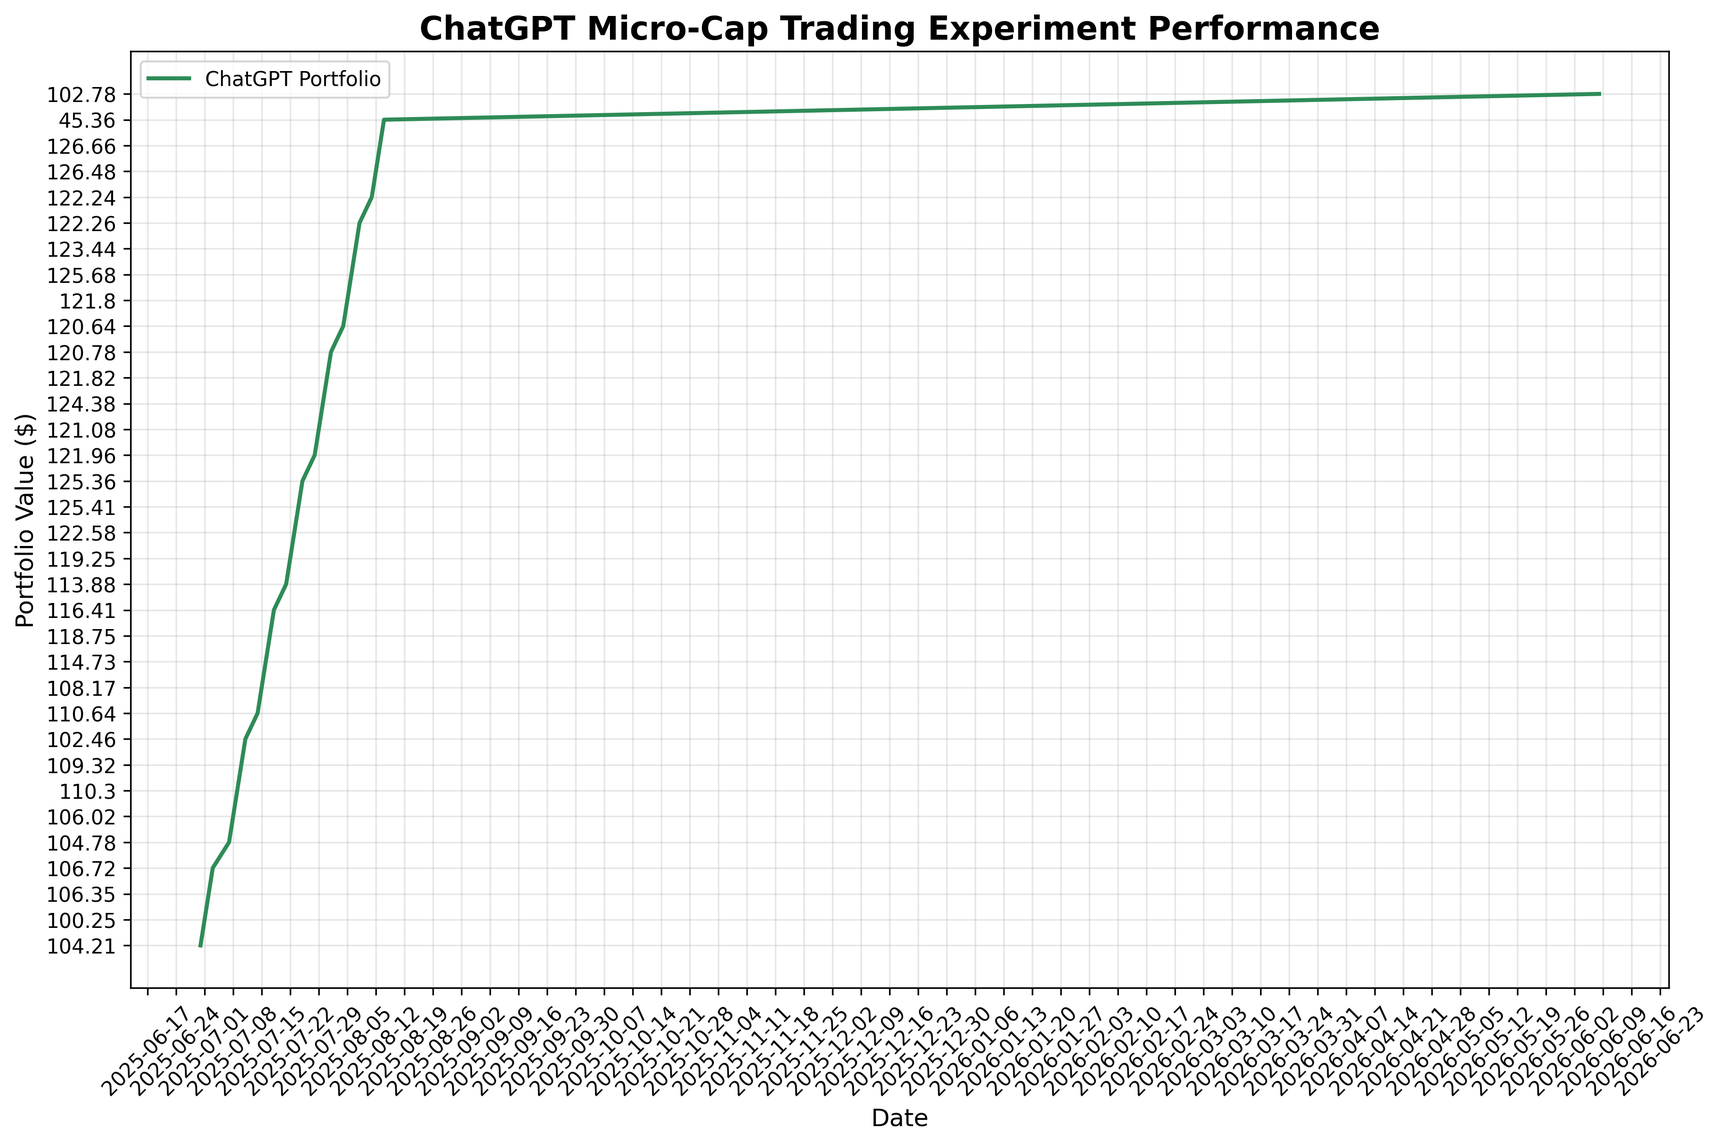
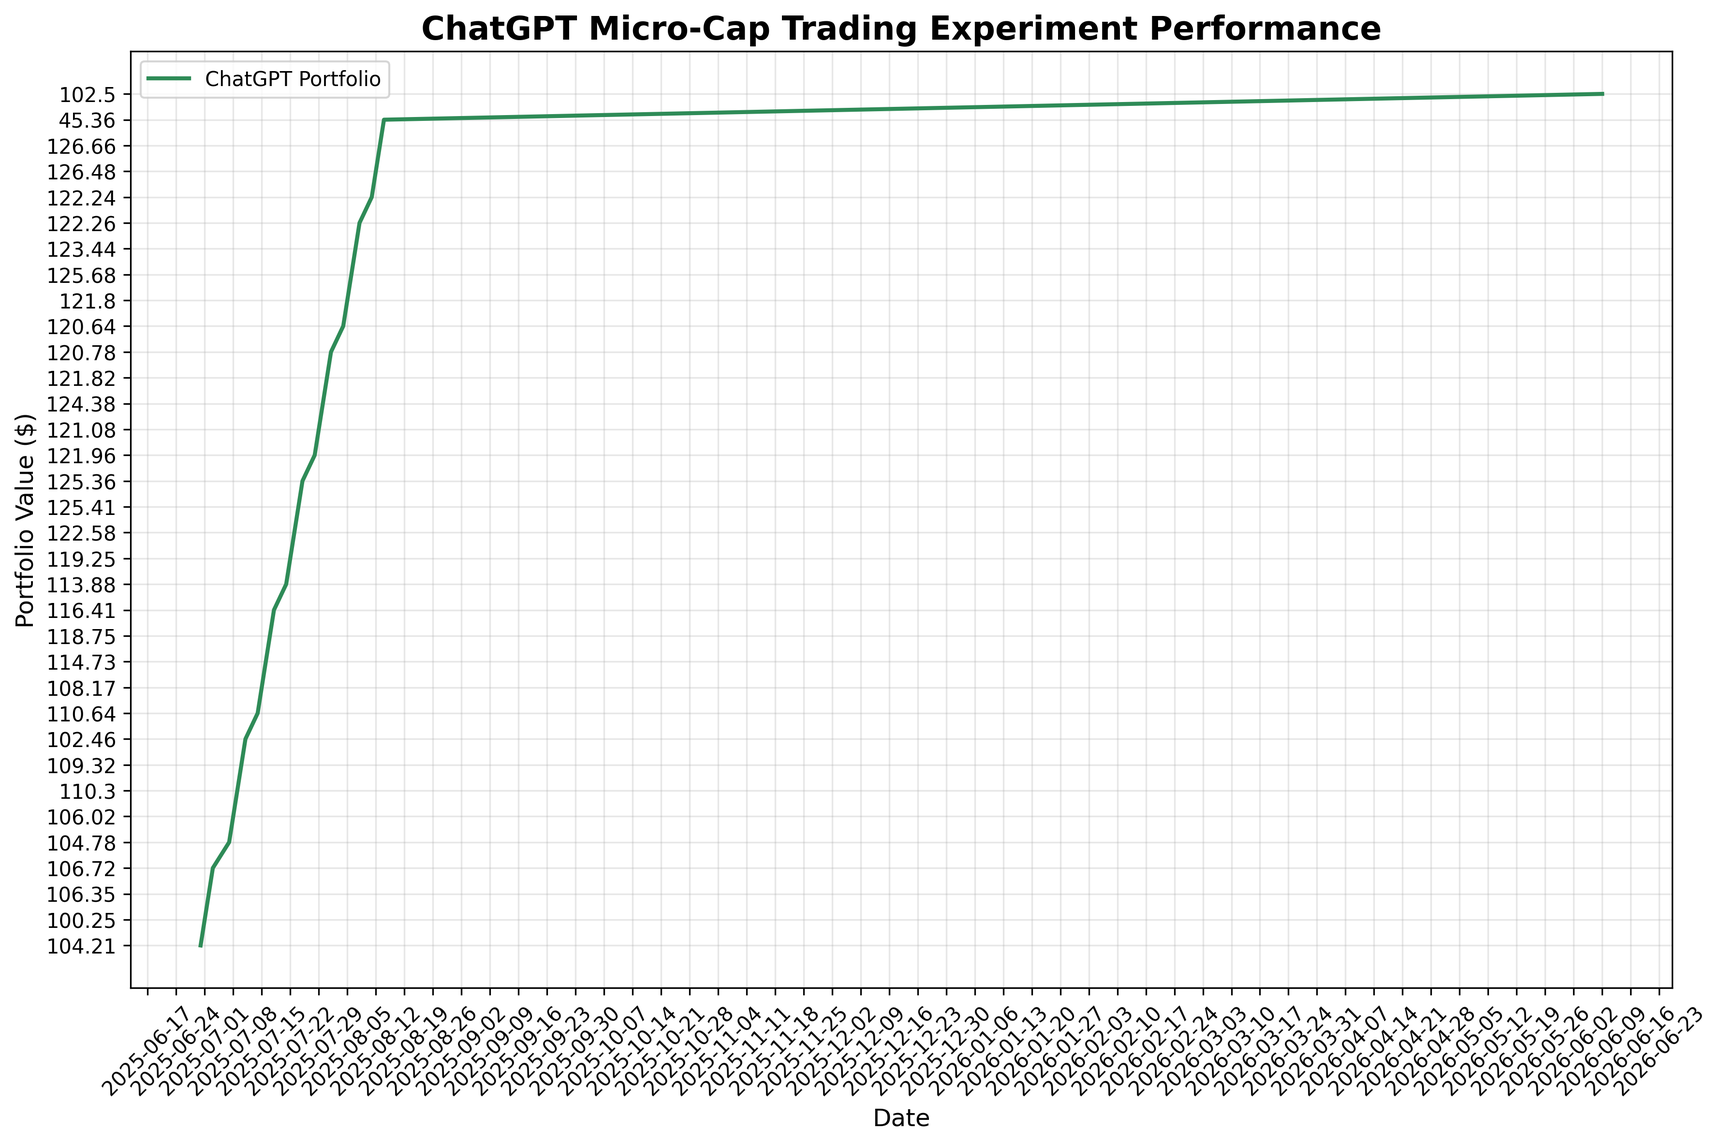
deploy: e15cad030d70fb3fbb51f9df6e22fa70c2f175c0

diff --git a/index.html b/index.html
@@ -105,7 +105,7 @@
                 <div class="stat-label">Total Trades</div>
             </div>
             <div class="stat-card">
-                <div class="stat-value" id="last-updated">2026-06-08</div>
+                <div class="stat-value" id="last-updated">2026-06-09</div>
                 <div class="stat-label">Last Updated</div>
             </div>
         </div>
@@ -160,8 +160,8 @@
     
     <script>
         // Portfolio data
-        const portfolioData = JSON.parse("[{&quot;Date&quot;: &quot;2025-08-11&quot;, &quot;Ticker&quot;: &quot;ABEO&quot;, &quot;Shares&quot;: 4.0, &quot;Buy Price&quot;: 5.77, &quot;Cost Basis&quot;: 23.08, &quot;Stop Loss&quot;: 4.9, &quot;Current Price&quot;: 6.28, &quot;Total Value&quot;: 25.12, &quot;PnL&quot;: 2.04, &quot;Action&quot;: &quot;HOLD&quot;, &quot;Cash Balance&quot;: NaN, &quot;Total Equity&quot;: NaN}, {&quot;Date&quot;: &quot;2025-08-11&quot;, &quot;Ticker&quot;: &quot;ACTU&quot;, &quot;Shares&quot;: 6.0, &quot;Buy Price&quot;: 5.75, &quot;Cost Basis&quot;: 34.5, &quot;Stop Loss&quot;: 4.89, &quot;Current Price&quot;: 8.01, &quot;Total Value&quot;: 48.06, &quot;PnL&quot;: 13.56, &quot;Action&quot;: &quot;HOLD&quot;, &quot;Cash Balance&quot;: NaN, &quot;Total Equity&quot;: NaN}, {&quot;Date&quot;: &quot;2025-08-11&quot;, &quot;Ticker&quot;: &quot;ESPR&quot;, &quot;Shares&quot;: 2.0, &quot;Buy Price&quot;: 1.91, &quot;Cost Basis&quot;: 3.82, &quot;Stop Loss&quot;: 1.6, &quot;Current Price&quot;: 1.85, &quot;Total Value&quot;: 3.7, &quot;PnL&quot;: -0.12, &quot;Action&quot;: &quot;HOLD&quot;, &quot;Cash Balance&quot;: NaN, &quot;Total Equity&quot;: NaN}, {&quot;Date&quot;: &quot;2025-08-11&quot;, &quot;Ticker&quot;: &quot;TOTAL&quot;, &quot;Shares&quot;: NaN, &quot;Buy Price&quot;: NaN, &quot;Cost Basis&quot;: NaN, &quot;Stop Loss&quot;: NaN, &quot;Current Price&quot;: NaN, &quot;Total Value&quot;: 76.88, &quot;PnL&quot;: 15.48, &quot;Action&quot;: NaN, &quot;Cash Balance&quot;: 45.36, &quot;Total Equity&quot;: &quot;122.24&quot;}, {&quot;Date&quot;: &quot;2025-08-12&quot;, &quot;Ticker&quot;: &quot;ABEO&quot;, &quot;Shares&quot;: 4.0, &quot;Buy Price&quot;: 5.77, &quot;Cost Basis&quot;: 23.08, &quot;Stop Loss&quot;: 4.9, &quot;Current Price&quot;: 6.38, &quot;Total Value&quot;: 25.52, &quot;PnL&quot;: 2.44, &quot;Action&quot;: &quot;HOLD&quot;, &quot;Cash Balance&quot;: NaN, &quot;Total Equity&quot;: NaN}, {&quot;Date&quot;: &quot;2025-08-12&quot;, &quot;Ticker&quot;: &quot;ACTU&quot;, &quot;Shares&quot;: 6.0, &quot;Buy Price&quot;: 5.75, &quot;Cost Basis&quot;: 34.5, &quot;Stop Loss&quot;: 4.89, &quot;Current Price&quot;: 8.67, &quot;Total Value&quot;: 52.02, &quot;PnL&quot;: 17.52, &quot;Action&quot;: &quot;HOLD&quot;, &quot;Cash Balance&quot;: NaN, &quot;Total Equity&quot;: NaN}, {&quot;Date&quot;: &quot;2025-08-12&quot;, &quot;Ticker&quot;: &quot;ESPR&quot;, &quot;Shares&quot;: 2.0, &quot;Buy Price&quot;: 1.91, &quot;Cost Basis&quot;: 3.82, &quot;Stop Loss&quot;: 1.6, &quot;Current Price&quot;: 1.79, &quot;Total Value&quot;: 3.58, &quot;PnL&quot;: -0.24, &quot;Action&quot;: &quot;HOLD&quot;, &quot;Cash Balance&quot;: NaN, &quot;Total Equity&quot;: NaN}, {&quot;Date&quot;: &quot;2025-08-12&quot;, &quot;Ticker&quot;: &quot;TOTAL&quot;, &quot;Shares&quot;: NaN, &quot;Buy Price&quot;: NaN, &quot;Cost Basis&quot;: NaN, &quot;Stop Loss&quot;: NaN, &quot;Current Price&quot;: NaN, &quot;Total Value&quot;: 81.12, &quot;PnL&quot;: 19.72, &quot;Action&quot;: NaN, &quot;Cash Balance&quot;: 45.36, &quot;Total Equity&quot;: &quot;126.48&quot;}, {&quot;Date&quot;: &quot;2025-08-13&quot;, &quot;Ticker&quot;: &quot;ABEO&quot;, &quot;Shares&quot;: 4.0, &quot;Buy Price&quot;: 5.77, &quot;Cost Basis&quot;: 23.08, &quot;Stop Loss&quot;: 4.9, &quot;Current Price&quot;: 6.56, &quot;Total Value&quot;: 26.24, &quot;PnL&quot;: 3.16, &quot;Action&quot;: &quot;HOLD&quot;, &quot;Cash Balance&quot;: NaN, &quot;Total Equity&quot;: NaN}, {&quot;Date&quot;: &quot;2025-08-13&quot;, &quot;Ticker&quot;: &quot;ACTU&quot;, &quot;Shares&quot;: 6.0, &quot;Buy Price&quot;: 5.75, &quot;Cost Basis&quot;: 34.5, &quot;Stop Loss&quot;: 4.89, &quot;Current Price&quot;: 8.53, &quot;Total Value&quot;: 51.18, &quot;PnL&quot;: 16.68, &quot;Action&quot;: &quot;HOLD&quot;, &quot;Cash Balance&quot;: NaN, &quot;Total Equity&quot;: NaN}, {&quot;Date&quot;: &quot;2025-08-13&quot;, &quot;Ticker&quot;: &quot;ESPR&quot;, &quot;Shares&quot;: 2.0, &quot;Buy Price&quot;: 1.91, &quot;Cost Basis&quot;: 3.82, &quot;Stop Loss&quot;: 1.6, &quot;Current Price&quot;: 1.94, &quot;Total Value&quot;: 3.88, &quot;PnL&quot;: 0.06, &quot;Action&quot;: &quot;HOLD&quot;, &quot;Cash Balance&quot;: NaN, &quot;Total Equity&quot;: NaN}, {&quot;Date&quot;: &quot;2025-08-13&quot;, &quot;Ticker&quot;: &quot;TOTAL&quot;, &quot;Shares&quot;: NaN, &quot;Buy Price&quot;: NaN, &quot;Cost Basis&quot;: NaN, &quot;Stop Loss&quot;: NaN, &quot;Current Price&quot;: NaN, &quot;Total Value&quot;: 81.3, &quot;PnL&quot;: 19.9, &quot;Action&quot;: NaN, &quot;Cash Balance&quot;: 45.36, &quot;Total Equity&quot;: &quot;126.66&quot;}, {&quot;Date&quot;: &quot;2025-08-14&quot;, &quot;Ticker&quot;: &quot;ABEO&quot;, &quot;Shares&quot;: 4.0, &quot;Buy Price&quot;: 5.77, &quot;Cost Basis&quot;: 23.08, &quot;Stop Loss&quot;: 4.9, &quot;Current Price&quot;: NaN, &quot;Total Value&quot;: NaN, &quot;PnL&quot;: NaN, &quot;Action&quot;: &quot;NO DATA&quot;, &quot;Cash Balance&quot;: NaN, &quot;Total Equity&quot;: NaN}, {&quot;Date&quot;: &quot;2025-08-14&quot;, &quot;Ticker&quot;: &quot;ACTU&quot;, &quot;Shares&quot;: 6.0, &quot;Buy Price&quot;: 5.75, &quot;Cost Basis&quot;: 34.5, &quot;Stop Loss&quot;: 4.89, &quot;Current Price&quot;: NaN, &quot;Total Value&quot;: NaN, &quot;PnL&quot;: NaN, &quot;Action&quot;: &quot;NO DATA&quot;, &quot;Cash Balance&quot;: NaN, &quot;Total Equity&quot;: NaN}, {&quot;Date&quot;: &quot;2025-08-14&quot;, &quot;Ticker&quot;: &quot;ESPR&quot;, &quot;Shares&quot;: 2.0, &quot;Buy Price&quot;: 1.91, &quot;Cost Basis&quot;: 3.82, &quot;Stop Loss&quot;: 1.6, &quot;Current Price&quot;: NaN, &quot;Total Value&quot;: NaN, &quot;PnL&quot;: NaN, &quot;Action&quot;: &quot;NO DATA&quot;, &quot;Cash Balance&quot;: NaN, &quot;Total Equity&quot;: NaN}, {&quot;Date&quot;: &quot;2025-08-14&quot;, &quot;Ticker&quot;: &quot;TOTAL&quot;, &quot;Shares&quot;: NaN, &quot;Buy Price&quot;: NaN, &quot;Cost Basis&quot;: NaN, &quot;Stop Loss&quot;: NaN, &quot;Current Price&quot;: NaN, &quot;Total Value&quot;: 0.0, &quot;PnL&quot;: 0.0, &quot;Action&quot;: NaN, &quot;Cash Balance&quot;: 45.36, &quot;Total Equity&quot;: &quot;45.36&quot;}, {&quot;Date&quot;: &quot;2026-06-08&quot;, &quot;Ticker&quot;: &quot;ABEO&quot;, &quot;Shares&quot;: 4.0, &quot;Buy Price&quot;: 5.77, &quot;Cost Basis&quot;: 23.08, &quot;Stop Loss&quot;: 4.9, &quot;Current Price&quot;: 5.45, &quot;Total Value&quot;: 21.8, &quot;PnL&quot;: -1.28, &quot;Action&quot;: &quot;HOLD&quot;, &quot;Cash Balance&quot;: NaN, &quot;Total Equity&quot;: NaN}, {&quot;Date&quot;: &quot;2026-06-08&quot;, &quot;Ticker&quot;: &quot;ACTU&quot;, &quot;Shares&quot;: 6.0, &quot;Buy Price&quot;: 5.75, &quot;Cost Basis&quot;: 34.5, &quot;Stop Loss&quot;: 4.89, &quot;Current Price&quot;: 4.89, &quot;Total Value&quot;: 29.34, &quot;PnL&quot;: -5.16, &quot;Action&quot;: &quot;SELL - Stop Loss Triggered&quot;, &quot;Cash Balance&quot;: NaN, &quot;Total Equity&quot;: NaN}, {&quot;Date&quot;: &quot;2026-06-08&quot;, &quot;Ticker&quot;: &quot;ESPR&quot;, &quot;Shares&quot;: 2.0, &quot;Buy Price&quot;: 1.91, &quot;Cost Basis&quot;: 3.82, &quot;Stop Loss&quot;: 1.6, &quot;Current Price&quot;: 3.14, &quot;Total Value&quot;: 6.28, &quot;PnL&quot;: 2.46, &quot;Action&quot;: &quot;HOLD&quot;, &quot;Cash Balance&quot;: NaN, &quot;Total Equity&quot;: NaN}, {&quot;Date&quot;: &quot;2026-06-08&quot;, &quot;Ticker&quot;: &quot;TOTAL&quot;, &quot;Shares&quot;: NaN, &quot;Buy Price&quot;: NaN, &quot;Cost Basis&quot;: NaN, &quot;Stop Loss&quot;: NaN, &quot;Current Price&quot;: NaN, &quot;Total Value&quot;: 28.08, &quot;PnL&quot;: 1.18, &quot;Action&quot;: NaN, &quot;Cash Balance&quot;: 74.7, &quot;Total Equity&quot;: &quot;102.78&quot;}]");
-        const tradeData = JSON.parse("[{&quot;Date&quot;: &quot;2025-07-08&quot;, &quot;Ticker&quot;: &quot;IINN&quot;, &quot;Shares Bought&quot;: 20.0, &quot;Buy Price&quot;: 1.5, &quot;Cost Basis&quot;: 30.0, &quot;PnL&quot;: 0.0, &quot;Reason&quot;: &quot;MANUAL BUY - New position&quot;, &quot;Shares Sold&quot;: NaN, &quot;Sell Price&quot;: NaN}, {&quot;Date&quot;: &quot;2025-07-21&quot;, &quot;Ticker&quot;: &quot;CADL&quot;, &quot;Shares Bought&quot;: NaN, &quot;Buy Price&quot;: NaN, &quot;Cost Basis&quot;: 25.2, &quot;PnL&quot;: 8.5, &quot;Reason&quot;: &quot;MANUAL SELL - GAIN CAPITAL FOR ACTU&quot;, &quot;Shares Sold&quot;: 5.0, &quot;Sell Price&quot;: 6.59}, {&quot;Date&quot;: &quot;2025-07-21&quot;, &quot;Ticker&quot;: &quot;ACTU&quot;, &quot;Shares Bought&quot;: 6.0, &quot;Buy Price&quot;: 5.75, &quot;Cost Basis&quot;: 34.5, &quot;PnL&quot;: 0.0, &quot;Reason&quot;: &quot;MANUAL BUY - New position&quot;, &quot;Shares Sold&quot;: NaN, &quot;Sell Price&quot;: NaN}, {&quot;Date&quot;: &quot;2025-07-28&quot;, &quot;Ticker&quot;: &quot;IINN&quot;, &quot;Shares Bought&quot;: NaN, &quot;Buy Price&quot;: NaN, &quot;Cost Basis&quot;: 9.0, &quot;PnL&quot;: -0.5400000000000009, &quot;Reason&quot;: &quot;MANUAL SELL - POSITION REDUCTION&quot;, &quot;Shares Sold&quot;: 6.0, &quot;Sell Price&quot;: 1.41}, {&quot;Date&quot;: &quot;2025-07-29&quot;, &quot;Ticker&quot;: &quot;AZTR&quot;, &quot;Shares Bought&quot;: NaN, &quot;Buy Price&quot;: NaN, &quot;Cost Basis&quot;: 13.75, &quot;PnL&quot;: -2.75, &quot;Reason&quot;: &quot;MANUAL SELL - DILUTION RISK&quot;, &quot;Shares Sold&quot;: 55.0, &quot;Sell Price&quot;: 0.2}, {&quot;Date&quot;: &quot;2025-08-01&quot;, &quot;Ticker&quot;: &quot;IINN&quot;, &quot;Shares Bought&quot;: 2.0, &quot;Buy Price&quot;: 1.74, &quot;Cost Basis&quot;: 3.48, &quot;PnL&quot;: 0.0, &quot;Reason&quot;: &quot;MANUAL BUY - New position&quot;, &quot;Shares Sold&quot;: NaN, &quot;Sell Price&quot;: NaN}, {&quot;Date&quot;: &quot;2025-08-01&quot;, &quot;Ticker&quot;: &quot;ABEO&quot;, &quot;Shares Bought&quot;: NaN, &quot;Buy Price&quot;: NaN, &quot;Cost Basis&quot;: 11.54, &quot;PnL&quot;: 1.200000000000001, &quot;Reason&quot;: &quot;MANUAL SELL - TRIM AFTER SUPPORT LOSS&quot;, &quot;Shares Sold&quot;: 2.0, &quot;Sell Price&quot;: 6.37}, {&quot;Date&quot;: &quot;2025-08-07&quot;, &quot;Ticker&quot;: &quot;ESPR&quot;, &quot;Shares Bought&quot;: 2.0, &quot;Buy Price&quot;: 1.91, &quot;Cost Basis&quot;: 3.82, &quot;PnL&quot;: 0.0, &quot;Reason&quot;: &quot;MANUAL BUY - New position&quot;, &quot;Shares Sold&quot;: NaN, &quot;Sell Price&quot;: NaN}, {&quot;Date&quot;: &quot;2025-08-08&quot;, &quot;Ticker&quot;: &quot;IINN&quot;, &quot;Shares Bought&quot;: NaN, &quot;Buy Price&quot;: NaN, &quot;Cost Basis&quot;: 1.5, &quot;PnL&quot;: -6.4, &quot;Reason&quot;: &quot;AUTOMATED SELL - STOPLOSS TRIGGERED&quot;, &quot;Shares Sold&quot;: 16.0, &quot;Sell Price&quot;: 1.1}, {&quot;Date&quot;: &quot;2026-06-08&quot;, &quot;Ticker&quot;: &quot;ACTU&quot;, &quot;Shares Bought&quot;: NaN, &quot;Buy Price&quot;: NaN, &quot;Cost Basis&quot;: 5.75, &quot;PnL&quot;: -5.16, &quot;Reason&quot;: &quot;AUTOMATED SELL - STOPLOSS TRIGGERED&quot;, &quot;Shares Sold&quot;: 6.0, &quot;Sell Price&quot;: 4.89}]");
+        const portfolioData = JSON.parse("[{&quot;Date&quot;: &quot;2025-08-11&quot;, &quot;Ticker&quot;: &quot;ABEO&quot;, &quot;Shares&quot;: 4.0, &quot;Buy Price&quot;: 5.77, &quot;Cost Basis&quot;: 23.08, &quot;Stop Loss&quot;: 4.9, &quot;Current Price&quot;: 6.28, &quot;Total Value&quot;: 25.12, &quot;PnL&quot;: 2.04, &quot;Action&quot;: &quot;HOLD&quot;, &quot;Cash Balance&quot;: NaN, &quot;Total Equity&quot;: NaN}, {&quot;Date&quot;: &quot;2025-08-11&quot;, &quot;Ticker&quot;: &quot;ACTU&quot;, &quot;Shares&quot;: 6.0, &quot;Buy Price&quot;: 5.75, &quot;Cost Basis&quot;: 34.5, &quot;Stop Loss&quot;: 4.89, &quot;Current Price&quot;: 8.01, &quot;Total Value&quot;: 48.06, &quot;PnL&quot;: 13.56, &quot;Action&quot;: &quot;HOLD&quot;, &quot;Cash Balance&quot;: NaN, &quot;Total Equity&quot;: NaN}, {&quot;Date&quot;: &quot;2025-08-11&quot;, &quot;Ticker&quot;: &quot;ESPR&quot;, &quot;Shares&quot;: 2.0, &quot;Buy Price&quot;: 1.91, &quot;Cost Basis&quot;: 3.82, &quot;Stop Loss&quot;: 1.6, &quot;Current Price&quot;: 1.85, &quot;Total Value&quot;: 3.7, &quot;PnL&quot;: -0.12, &quot;Action&quot;: &quot;HOLD&quot;, &quot;Cash Balance&quot;: NaN, &quot;Total Equity&quot;: NaN}, {&quot;Date&quot;: &quot;2025-08-11&quot;, &quot;Ticker&quot;: &quot;TOTAL&quot;, &quot;Shares&quot;: NaN, &quot;Buy Price&quot;: NaN, &quot;Cost Basis&quot;: NaN, &quot;Stop Loss&quot;: NaN, &quot;Current Price&quot;: NaN, &quot;Total Value&quot;: 76.88, &quot;PnL&quot;: 15.48, &quot;Action&quot;: NaN, &quot;Cash Balance&quot;: 45.36, &quot;Total Equity&quot;: &quot;122.24&quot;}, {&quot;Date&quot;: &quot;2025-08-12&quot;, &quot;Ticker&quot;: &quot;ABEO&quot;, &quot;Shares&quot;: 4.0, &quot;Buy Price&quot;: 5.77, &quot;Cost Basis&quot;: 23.08, &quot;Stop Loss&quot;: 4.9, &quot;Current Price&quot;: 6.38, &quot;Total Value&quot;: 25.52, &quot;PnL&quot;: 2.44, &quot;Action&quot;: &quot;HOLD&quot;, &quot;Cash Balance&quot;: NaN, &quot;Total Equity&quot;: NaN}, {&quot;Date&quot;: &quot;2025-08-12&quot;, &quot;Ticker&quot;: &quot;ACTU&quot;, &quot;Shares&quot;: 6.0, &quot;Buy Price&quot;: 5.75, &quot;Cost Basis&quot;: 34.5, &quot;Stop Loss&quot;: 4.89, &quot;Current Price&quot;: 8.67, &quot;Total Value&quot;: 52.02, &quot;PnL&quot;: 17.52, &quot;Action&quot;: &quot;HOLD&quot;, &quot;Cash Balance&quot;: NaN, &quot;Total Equity&quot;: NaN}, {&quot;Date&quot;: &quot;2025-08-12&quot;, &quot;Ticker&quot;: &quot;ESPR&quot;, &quot;Shares&quot;: 2.0, &quot;Buy Price&quot;: 1.91, &quot;Cost Basis&quot;: 3.82, &quot;Stop Loss&quot;: 1.6, &quot;Current Price&quot;: 1.79, &quot;Total Value&quot;: 3.58, &quot;PnL&quot;: -0.24, &quot;Action&quot;: &quot;HOLD&quot;, &quot;Cash Balance&quot;: NaN, &quot;Total Equity&quot;: NaN}, {&quot;Date&quot;: &quot;2025-08-12&quot;, &quot;Ticker&quot;: &quot;TOTAL&quot;, &quot;Shares&quot;: NaN, &quot;Buy Price&quot;: NaN, &quot;Cost Basis&quot;: NaN, &quot;Stop Loss&quot;: NaN, &quot;Current Price&quot;: NaN, &quot;Total Value&quot;: 81.12, &quot;PnL&quot;: 19.72, &quot;Action&quot;: NaN, &quot;Cash Balance&quot;: 45.36, &quot;Total Equity&quot;: &quot;126.48&quot;}, {&quot;Date&quot;: &quot;2025-08-13&quot;, &quot;Ticker&quot;: &quot;ABEO&quot;, &quot;Shares&quot;: 4.0, &quot;Buy Price&quot;: 5.77, &quot;Cost Basis&quot;: 23.08, &quot;Stop Loss&quot;: 4.9, &quot;Current Price&quot;: 6.56, &quot;Total Value&quot;: 26.24, &quot;PnL&quot;: 3.16, &quot;Action&quot;: &quot;HOLD&quot;, &quot;Cash Balance&quot;: NaN, &quot;Total Equity&quot;: NaN}, {&quot;Date&quot;: &quot;2025-08-13&quot;, &quot;Ticker&quot;: &quot;ACTU&quot;, &quot;Shares&quot;: 6.0, &quot;Buy Price&quot;: 5.75, &quot;Cost Basis&quot;: 34.5, &quot;Stop Loss&quot;: 4.89, &quot;Current Price&quot;: 8.53, &quot;Total Value&quot;: 51.18, &quot;PnL&quot;: 16.68, &quot;Action&quot;: &quot;HOLD&quot;, &quot;Cash Balance&quot;: NaN, &quot;Total Equity&quot;: NaN}, {&quot;Date&quot;: &quot;2025-08-13&quot;, &quot;Ticker&quot;: &quot;ESPR&quot;, &quot;Shares&quot;: 2.0, &quot;Buy Price&quot;: 1.91, &quot;Cost Basis&quot;: 3.82, &quot;Stop Loss&quot;: 1.6, &quot;Current Price&quot;: 1.94, &quot;Total Value&quot;: 3.88, &quot;PnL&quot;: 0.06, &quot;Action&quot;: &quot;HOLD&quot;, &quot;Cash Balance&quot;: NaN, &quot;Total Equity&quot;: NaN}, {&quot;Date&quot;: &quot;2025-08-13&quot;, &quot;Ticker&quot;: &quot;TOTAL&quot;, &quot;Shares&quot;: NaN, &quot;Buy Price&quot;: NaN, &quot;Cost Basis&quot;: NaN, &quot;Stop Loss&quot;: NaN, &quot;Current Price&quot;: NaN, &quot;Total Value&quot;: 81.3, &quot;PnL&quot;: 19.9, &quot;Action&quot;: NaN, &quot;Cash Balance&quot;: 45.36, &quot;Total Equity&quot;: &quot;126.66&quot;}, {&quot;Date&quot;: &quot;2025-08-14&quot;, &quot;Ticker&quot;: &quot;ABEO&quot;, &quot;Shares&quot;: 4.0, &quot;Buy Price&quot;: 5.77, &quot;Cost Basis&quot;: 23.08, &quot;Stop Loss&quot;: 4.9, &quot;Current Price&quot;: NaN, &quot;Total Value&quot;: NaN, &quot;PnL&quot;: NaN, &quot;Action&quot;: &quot;NO DATA&quot;, &quot;Cash Balance&quot;: NaN, &quot;Total Equity&quot;: NaN}, {&quot;Date&quot;: &quot;2025-08-14&quot;, &quot;Ticker&quot;: &quot;ACTU&quot;, &quot;Shares&quot;: 6.0, &quot;Buy Price&quot;: 5.75, &quot;Cost Basis&quot;: 34.5, &quot;Stop Loss&quot;: 4.89, &quot;Current Price&quot;: NaN, &quot;Total Value&quot;: NaN, &quot;PnL&quot;: NaN, &quot;Action&quot;: &quot;NO DATA&quot;, &quot;Cash Balance&quot;: NaN, &quot;Total Equity&quot;: NaN}, {&quot;Date&quot;: &quot;2025-08-14&quot;, &quot;Ticker&quot;: &quot;ESPR&quot;, &quot;Shares&quot;: 2.0, &quot;Buy Price&quot;: 1.91, &quot;Cost Basis&quot;: 3.82, &quot;Stop Loss&quot;: 1.6, &quot;Current Price&quot;: NaN, &quot;Total Value&quot;: NaN, &quot;PnL&quot;: NaN, &quot;Action&quot;: &quot;NO DATA&quot;, &quot;Cash Balance&quot;: NaN, &quot;Total Equity&quot;: NaN}, {&quot;Date&quot;: &quot;2025-08-14&quot;, &quot;Ticker&quot;: &quot;TOTAL&quot;, &quot;Shares&quot;: NaN, &quot;Buy Price&quot;: NaN, &quot;Cost Basis&quot;: NaN, &quot;Stop Loss&quot;: NaN, &quot;Current Price&quot;: NaN, &quot;Total Value&quot;: 0.0, &quot;PnL&quot;: 0.0, &quot;Action&quot;: NaN, &quot;Cash Balance&quot;: 45.36, &quot;Total Equity&quot;: &quot;45.36&quot;}, {&quot;Date&quot;: &quot;2026-06-09&quot;, &quot;Ticker&quot;: &quot;ABEO&quot;, &quot;Shares&quot;: 4.0, &quot;Buy Price&quot;: 5.77, &quot;Cost Basis&quot;: 23.08, &quot;Stop Loss&quot;: 4.9, &quot;Current Price&quot;: 5.38, &quot;Total Value&quot;: 21.52, &quot;PnL&quot;: -1.56, &quot;Action&quot;: &quot;HOLD&quot;, &quot;Cash Balance&quot;: NaN, &quot;Total Equity&quot;: NaN}, {&quot;Date&quot;: &quot;2026-06-09&quot;, &quot;Ticker&quot;: &quot;ACTU&quot;, &quot;Shares&quot;: 6.0, &quot;Buy Price&quot;: 5.75, &quot;Cost Basis&quot;: 34.5, &quot;Stop Loss&quot;: 4.89, &quot;Current Price&quot;: 4.89, &quot;Total Value&quot;: 29.34, &quot;PnL&quot;: -5.16, &quot;Action&quot;: &quot;SELL - Stop Loss Triggered&quot;, &quot;Cash Balance&quot;: NaN, &quot;Total Equity&quot;: NaN}, {&quot;Date&quot;: &quot;2026-06-09&quot;, &quot;Ticker&quot;: &quot;ESPR&quot;, &quot;Shares&quot;: 2.0, &quot;Buy Price&quot;: 1.91, &quot;Cost Basis&quot;: 3.82, &quot;Stop Loss&quot;: 1.6, &quot;Current Price&quot;: 3.14, &quot;Total Value&quot;: 6.28, &quot;PnL&quot;: 2.46, &quot;Action&quot;: &quot;HOLD&quot;, &quot;Cash Balance&quot;: NaN, &quot;Total Equity&quot;: NaN}, {&quot;Date&quot;: &quot;2026-06-09&quot;, &quot;Ticker&quot;: &quot;TOTAL&quot;, &quot;Shares&quot;: NaN, &quot;Buy Price&quot;: NaN, &quot;Cost Basis&quot;: NaN, &quot;Stop Loss&quot;: NaN, &quot;Current Price&quot;: NaN, &quot;Total Value&quot;: 27.8, &quot;PnL&quot;: 0.9, &quot;Action&quot;: NaN, &quot;Cash Balance&quot;: 74.7, &quot;Total Equity&quot;: &quot;102.5&quot;}]");
+        const tradeData = JSON.parse("[{&quot;Date&quot;: &quot;2025-07-08&quot;, &quot;Ticker&quot;: &quot;IINN&quot;, &quot;Shares Bought&quot;: 20.0, &quot;Buy Price&quot;: 1.5, &quot;Cost Basis&quot;: 30.0, &quot;PnL&quot;: 0.0, &quot;Reason&quot;: &quot;MANUAL BUY - New position&quot;, &quot;Shares Sold&quot;: NaN, &quot;Sell Price&quot;: NaN}, {&quot;Date&quot;: &quot;2025-07-21&quot;, &quot;Ticker&quot;: &quot;CADL&quot;, &quot;Shares Bought&quot;: NaN, &quot;Buy Price&quot;: NaN, &quot;Cost Basis&quot;: 25.2, &quot;PnL&quot;: 8.5, &quot;Reason&quot;: &quot;MANUAL SELL - GAIN CAPITAL FOR ACTU&quot;, &quot;Shares Sold&quot;: 5.0, &quot;Sell Price&quot;: 6.59}, {&quot;Date&quot;: &quot;2025-07-21&quot;, &quot;Ticker&quot;: &quot;ACTU&quot;, &quot;Shares Bought&quot;: 6.0, &quot;Buy Price&quot;: 5.75, &quot;Cost Basis&quot;: 34.5, &quot;PnL&quot;: 0.0, &quot;Reason&quot;: &quot;MANUAL BUY - New position&quot;, &quot;Shares Sold&quot;: NaN, &quot;Sell Price&quot;: NaN}, {&quot;Date&quot;: &quot;2025-07-28&quot;, &quot;Ticker&quot;: &quot;IINN&quot;, &quot;Shares Bought&quot;: NaN, &quot;Buy Price&quot;: NaN, &quot;Cost Basis&quot;: 9.0, &quot;PnL&quot;: -0.5400000000000009, &quot;Reason&quot;: &quot;MANUAL SELL - POSITION REDUCTION&quot;, &quot;Shares Sold&quot;: 6.0, &quot;Sell Price&quot;: 1.41}, {&quot;Date&quot;: &quot;2025-07-29&quot;, &quot;Ticker&quot;: &quot;AZTR&quot;, &quot;Shares Bought&quot;: NaN, &quot;Buy Price&quot;: NaN, &quot;Cost Basis&quot;: 13.75, &quot;PnL&quot;: -2.75, &quot;Reason&quot;: &quot;MANUAL SELL - DILUTION RISK&quot;, &quot;Shares Sold&quot;: 55.0, &quot;Sell Price&quot;: 0.2}, {&quot;Date&quot;: &quot;2025-08-01&quot;, &quot;Ticker&quot;: &quot;IINN&quot;, &quot;Shares Bought&quot;: 2.0, &quot;Buy Price&quot;: 1.74, &quot;Cost Basis&quot;: 3.48, &quot;PnL&quot;: 0.0, &quot;Reason&quot;: &quot;MANUAL BUY - New position&quot;, &quot;Shares Sold&quot;: NaN, &quot;Sell Price&quot;: NaN}, {&quot;Date&quot;: &quot;2025-08-01&quot;, &quot;Ticker&quot;: &quot;ABEO&quot;, &quot;Shares Bought&quot;: NaN, &quot;Buy Price&quot;: NaN, &quot;Cost Basis&quot;: 11.54, &quot;PnL&quot;: 1.200000000000001, &quot;Reason&quot;: &quot;MANUAL SELL - TRIM AFTER SUPPORT LOSS&quot;, &quot;Shares Sold&quot;: 2.0, &quot;Sell Price&quot;: 6.37}, {&quot;Date&quot;: &quot;2025-08-07&quot;, &quot;Ticker&quot;: &quot;ESPR&quot;, &quot;Shares Bought&quot;: 2.0, &quot;Buy Price&quot;: 1.91, &quot;Cost Basis&quot;: 3.82, &quot;PnL&quot;: 0.0, &quot;Reason&quot;: &quot;MANUAL BUY - New position&quot;, &quot;Shares Sold&quot;: NaN, &quot;Sell Price&quot;: NaN}, {&quot;Date&quot;: &quot;2025-08-08&quot;, &quot;Ticker&quot;: &quot;IINN&quot;, &quot;Shares Bought&quot;: NaN, &quot;Buy Price&quot;: NaN, &quot;Cost Basis&quot;: 1.5, &quot;PnL&quot;: -6.4, &quot;Reason&quot;: &quot;AUTOMATED SELL - STOPLOSS TRIGGERED&quot;, &quot;Shares Sold&quot;: 16.0, &quot;Sell Price&quot;: 1.1}, {&quot;Date&quot;: &quot;2026-06-09&quot;, &quot;Ticker&quot;: &quot;ACTU&quot;, &quot;Shares Bought&quot;: NaN, &quot;Buy Price&quot;: NaN, &quot;Cost Basis&quot;: 5.75, &quot;PnL&quot;: -5.16, &quot;Reason&quot;: &quot;AUTOMATED SELL - STOPLOSS TRIGGERED&quot;, &quot;Shares Sold&quot;: 6.0, &quot;Sell Price&quot;: 4.89}]");
         
         // Update total equity
         if (portfolioData.length > 0) {
